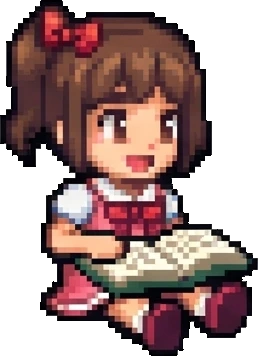
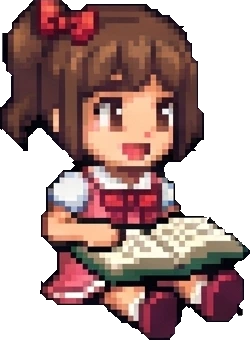
v0.38.8 창 속 아이 그림 테두리를 단짝처럼 얇게
Claude-Session: https://claude.ai/code/session_01VYXQzVYR4chXqJ2j5munDD

diff --git a/src/components/TitleScreen.tsx b/src/components/TitleScreen.tsx
@@ -114,7 +114,7 @@ export function TitleScreen({ onStart, onOpening }: { onStart: () => void; onOpe
               </button>
             ))}
           </div>
-          <p className="mt-1 text-[10px] font-bold text-white/45">v0.38.7 · 주말 나들이</p>
+          <p className="mt-1 text-[10px] font-bold text-white/45">v0.38.8 · 주말 나들이</p>
         </div>
       )}
       {settings && <SettingsModal onClose={() => setSettings(false)} onOpening={onOpening} />}

diff --git a/scripts/build-portraits.py b/scripts/build-portraits.py
@@ -9,12 +9,39 @@ src = open('scripts/build-sprites.py', encoding='utf-8').read()
 ns = {'__name__': 'portraits'}
 exec(src[:src.index('def walk_frames')], ns)
 
+def thin_outline(a, passes=4, thr=75):
+    """바깥 검은 테두리를 안쪽으로 깎아 얇게 (원본은 1도트 ≈ 6px 라 테두리가 12px 안팎 → 친구 그림처럼 얇게)"""
+    a = np.pad(a, ((2, 2), (2, 2), (0, 0)))  # 그림 끝에 붙은 테두리도 깎이도록 투명 여백
+    for _ in range(passes):
+        op = a[..., 3] > 0
+        edge = np.zeros_like(op)
+        edge[1:] |= ~op[:-1]; edge[:-1] |= ~op[1:]; edge[:, 1:] |= ~op[:, :-1]; edge[:, :-1] |= ~op[:, 1:]
+        lum = a[..., :3].astype(int).mean(-1)
+        a[op & edge & (lum < thr), 3] = 0
+    # 깎고 남은 외톨이 점 정리 (주변 3x3 에 불투명이 2개 이하)
+    for _ in range(2):
+        op = (a[..., 3] > 0).astype(int)
+        n = sum(np.roll(np.roll(op, dy, 0), dx, 1) for dy in (-1, 0, 1) for dx in (-1, 0, 1))
+        a[(op == 1) & (n <= 3), 3] = 0
+    ys, xs = np.where(a[..., 3] > 0)
+    a = a[ys.min():ys.max() + 1, xs.min():xs.max() + 1]
+    # 머리 꼭대기에 두껍게 남은 검은 줄 (원본 시트 칸 경계에 붙어 있던 테두리) 걷어 내기
+    while a.shape[0] > 10:
+        row = a[0]
+        op = row[:, 3] > 0
+        if op.sum() and (row[op, :3].astype(int).mean(-1) < thr).mean() > 0.7:
+            a = a[1:]
+        else:
+            break
+    return a
+
+
 os.makedirs('src/assets/portraits', exist_ok=True)
 frames, img, boxes = ns['load_sheet'](ns['SRC'], ns['NAMES'])
 for name in ns['NAMES']:
     if name.startswith(('CAT', 'PARENT')):
         continue
-    a = ns['cut'](img, boxes[name], 1.0)  # 원본 1:1
+    a = thin_outline(ns['cut'](img, boxes[name], 1.0))  # 원본 1:1, 테두리만 얇게
     out = f'src/assets/portraits/{name}.webp'
     Image.fromarray(a).save(out, 'WEBP', quality=92, alpha_quality=100)
     print(out, a.shape[1], a.shape[0], os.path.getsize(out))

diff --git a/CHANGELOG.md b/CHANGELOG.md
@@ -1,5 +1,9 @@
 # Changelog
 
+## v0.38.8 — 창 속 아이 테두리 친구처럼 얇게
+- 원본 해상도 아이 그림(scripts/build-portraits.py)의 바깥 검은 테두리를 안쪽으로 4px 깎아 단짝 그림과 같은 굵기로
+  - 머리 꼭대기에 두껍게 남던 검은 줄과 깎고 남은 외톨이 점도 정리
+
 ## v0.38.7 — 창 속 아이 그림 원본 해상도로
 - 창·장면에 뜨는 아이 그림이 흐릿하던 근본 원인 수정: 게임용 그림(원본을 2배 도트로 줄인 것)을 다시 키워 보여 주던 것을, 캐릭터 시트 원본 해상도 그대로 잘라 낸 그림으로 (scripts/build-portraits.py → src/assets/portraits/)
   - 서기 · 만세 · 책 읽기 모습 (유년 · 청소년 · 청년 × 아들 · 딸) — 주말 나들이 · 이벤트 · 생일 · 특별한 하루 · 정보 화면 등
